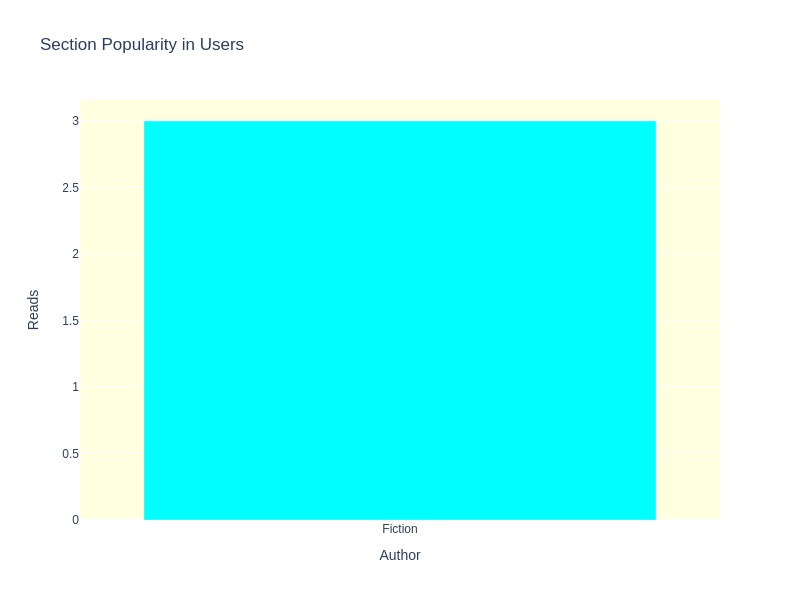
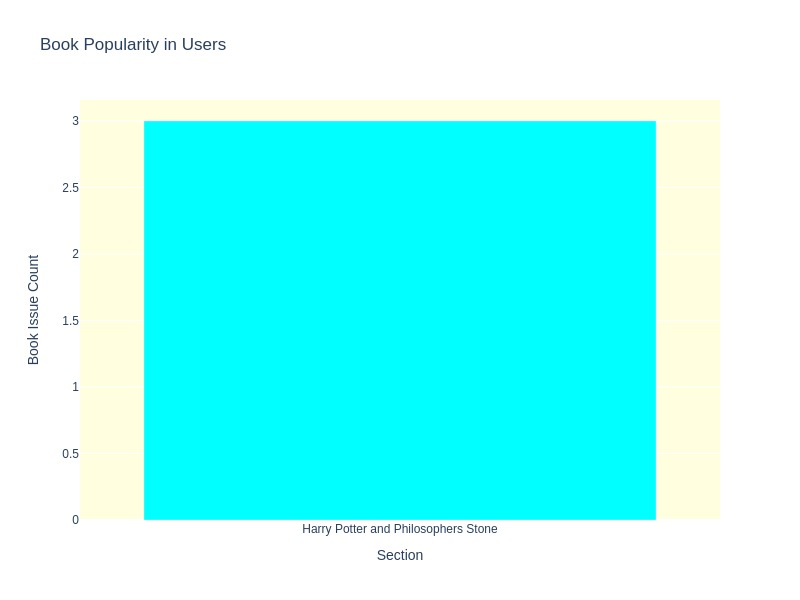
Minor Beta Testing Correction and new images/graphs

Changed region(s): [[0.375, 0.87, 0.625, 0.93], [0.0625, 0.06, 0.3125, 0.09], [0.0312, 0.42, 0.0625, 0.6]]

diff --git a/frontend/src/components/LibStats.vue b/frontend/src/components/LibStats.vue
@@ -5,8 +5,8 @@
         </div>
         <div class="row row-col-2 p-2">
             <div class="col-sm-6">
-                <h5>Section Popularity Among Users</h5>
-                <img :src="section_read_path" height="400" width="600"/>
+                <h5>Book Popularity Among Users</h5>
+                <img :src="book_read_path" height="400" width="600"/>
             </div>
             <div class="col-sm-6">
                 <h5>Section Wise Revenue Generation Distribution</h5>
@@ -23,7 +23,7 @@ export default{
         return {
             user: JSON.parse(localStorage.getItem('user')),
             token: localStorage.getItem('auth_token'),
-            section_read_path: '',
+            book_read_path: '',
             section_revenue_path: ''
         }
     }, 
@@ -44,7 +44,7 @@ export default{
                 })
                 if (!res.ok) { throw Error("HTTP Error at Lib Stats:"+res.status) }
                 const data = await res.json() ;
-                this.section_read_path = this.getImage(data.section_read_path);         // set output
+                this.book_read_path = this.getImage(data.book_read_path);         // set output
                 this.section_revenue_path = this.getImage(data.section_revenue_path);
             }catch(error){console.log(error);} 
         }

diff --git a/frontend/src/router/index.js b/frontend/src/router/index.js
@@ -10,6 +10,7 @@ import BookForm from '@/components/BookForm.vue';
 import AuthorsPage from '@/views/AuthorsPage.vue';
 import AnalyticsView from '@/views/AnalyticsView.vue';
 import MyStatsView from '@/views/MyStatsView.vue';
+import MyProfile from '@/views/MyProfile.vue';
 
 const routes = [
   { path: '/', name: 'HomeView' ,component: HomeView },
@@ -24,7 +25,7 @@ const routes = [
   { path: '/book/create', component: BookForm},
   { path: '/authors', component: AuthorsPage},
   { path: '/mystats', component: MyStatsView },
-  // { path: '/myprofile', component: MyProfileView },
+  { path: '/myprofile', component: MyProfile},
   { path: '/analytics', component: AnalyticsView },
   { path: '/login', name: 'LoginView' ,component: LoginView },
 

diff --git a/frontend/src/components/BookForm.vue b/frontend/src/components/BookForm.vue
@@ -61,7 +61,7 @@ export default{
                 {label: 'Book Image', type:'file', id:'b_image'},
                 {label: 'Select Author', type:'select', id:'a_id', data:''},
                 {label: 'Select Section', type:'select', id:'s_id', data:''},
-                {label: 'PDF Price', type:'number', min:"1", step:"0.01", id:'pdf_price', data:''},
+                {label: 'PDF Price (₹)', type:'number', min:"1", step:"0.01", id:'pdf_price', data:''},
                 {label: 'Publisher', type:'text', id:'publisher', data:''},
                 {label: 'Published Date', type:'date', id:'date_published', data:''},
                 {label: 'Content ID (Only View)', type:'text', id:'content_view_id', data:''},

diff --git a/frontend/src/components/UserStats.vue b/frontend/src/components/UserStats.vue
@@ -5,11 +5,11 @@
         </div>
         <div class="row row-col-2 p-2">
             <div class="col-sm-6">
-                <h5>Section Popularity Among Users</h5>
+                <h5>Section Popularity</h5>
                 <img :src="section_dist_path" height="400" width="400"/>
             </div>
             <div class="col-sm-6">
-                <h5>Section Wise Revenue Generation Distribution</h5>
+                <h5>Favourite Author</h5>
                 <img :src="fav_author_path" height="400" width="400"/>
             </div>
         </div>
